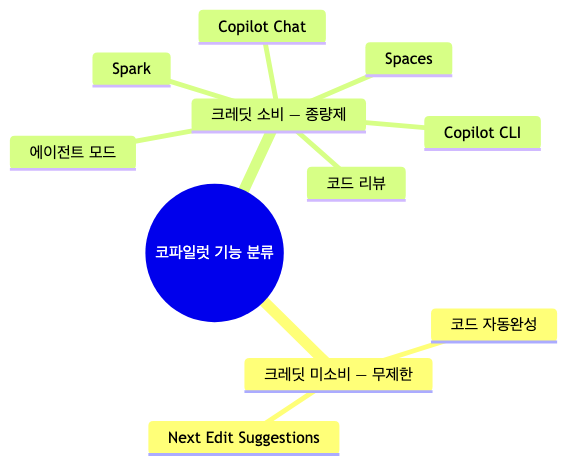
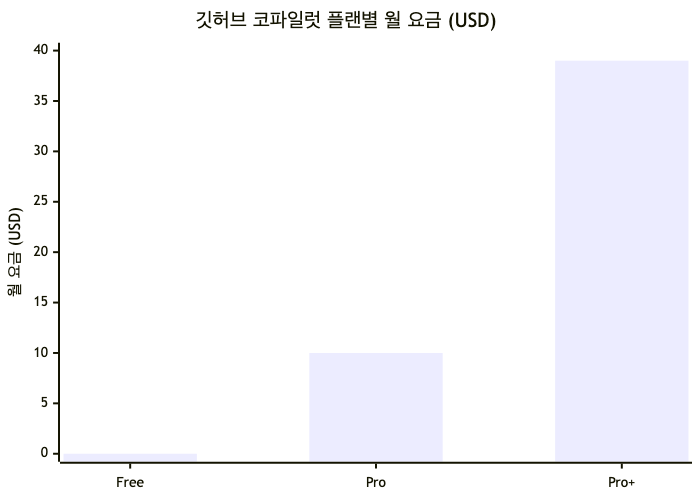
post: 깃허브 코파일럿 토큰 요금제: 개발자들에게 진짜 이득일까?

Changed region(s): [[0.0, 0.0, 0.9757, 0.9214], [0.0887, 0.862, 1.0, 0.9809]]

diff --git a/content/posts/2026-07-01-깃허브-코파일럿-요금--ai-코딩-비용.md b/content/posts/2026-07-01-깃허브-코파일럿-요금--ai-코딩-비용.md
@@ -1,0 +1,140 @@
+---
+title: "깃허브 코파일럿 토큰 요금제: 개발자들에게 진짜 이득일까?"
+date: 2026-07-01
+draft: false
+tags: ["깃허브 코파일럿 요금", "AI 코딩 비용", "GitHub Copilot", "usage-based billing", "AI Credits"]
+categories: ["ai-cost-guide"]
+description: "GitHub Copilot이 2026년 6월 프리미엄 요청 카운트에서 토큰 소비 기반 사용량 과금으로 전환했다. 플랜별 가격, 크레딧 소진 구조, 요금 폭탄 위험까지 개발자 관점에서 손익을 따져본다."
+cover:
+  image: "images/깃허브-코파일럿-요금--ai-코딩-비용-cover.jpg"
+  alt: "깃허브 코파일럿 토큰 요금제: 개발자들에게 진짜 이득일까? 커버 이미지"
+  caption: "Photo by [geralt](https://pixabay.com/ko/photos/%EC%88%98%EC%88%98%EB%A3%8C-%ED%85%94%EB%A0%88%EB%B9%84%EC%A0%84-%EC%9A%94%EA%B8%88-%EB%B9%84%EC%9A%A9-2731627/) on Pixabay"
+---
+
+> ※ 이 글에는 제휴 마케팅 링크가 포함될 수 있으며, 구매 시 수수료를 받을 수 있습니다.
+
+## "이번 달 코파일럿 요금이 왜 이렇게 나왔지?"
+
+AI 코딩 도구를 쓰는 개발자라면 이 질문을 한 번쯤 마주하게 될지도 모른다. GitHub Copilot이 2026년 6월 1일부터 요금 체계를 근본적으로 바꿨기 때문이다. "월 얼마"라는 정액제 감각에 익숙했던 사용자에게, 토큰 소비량에 따라 비용이 달라지는 새 방식은 낯설고 예측이 어렵다. 이 글에서는 새 요금제가 실제로 어떻게 작동하는지, 그리고 개발자 입장에서 이득인지 손해인지를 숫자로 따져본다.
+
+## 무엇이 바뀌었나 — 프리미엄 요청에서 토큰 과금으로
+
+핵심부터 짚자. GitHub Copilot은 2026년 6월 1일부터 기존의 "프리미엄 요청 카운트(premium request count)" 방식에서 "토큰 소비 기반 사용량 과금(usage-based billing)"으로 전환했다 ([github.blog](https://github.blog/news-insights/company-news/github-copilot-is-moving-to-usage-based-billing/)).
+
+기존 방식은 요청 1건을 하나로 세고, 모델별 배수를 곱해 프리미엄 요청 한도를 소진하는 구조였다. 새 방식은 다르다. **입력 토큰·출력 토큰·캐시 토큰을 모두 포함한 실제 토큰 소비량**을 각 모델의 API 요율로 계산해 GitHub AI Credits로 환산한다 ([github.blog](https://github.blog/news-insights/company-news/github-copilot-is-moving-to-usage-based-billing/)). 쉽게 말해, 요청을 몇 번 했느냐가 아니라 **얼마나 많은 토큰을 태웠느냐**가 비용을 결정하는 방식으로 바뀐 것이다.
+
+여기서 등장하는 단위가 **GitHub AI Credits**다. **1 AI Credit = $0.01 USD**이며, 각 플랜은 월 일정액의 AI Credits를 기본 포함한다 ([docs.github.com](https://docs.github.com/en/copilot/reference/copilot-billing/models-and-pricing)). 즉 크레딧은 사실상 달러를 잘게 쪼갠 계량 단위이고, 토큰을 쓸수록 이 크레딧이 깎여 나간다.
+
+### 크레딧을 쓰는 기능과 안 쓰는 기능
+
+새 요금제를 이해하는 데 가장 중요한 구분이 이것이다. 모든 기능이 크레딧을 소비하지는 않는다.
+
+**크레딧을 소비하지 않는 기능 (유료 플랜에서 무제한 유지):**
+- 코드 자동완성(completions)
+- Next Edit 제안
+
+이 두 가지는 크레딧을 소비하지 않고, 유료 플랜에서 무제한으로 유지된다 ([github.com/features/copilot](https://github.com/features/copilot/plans)). 코파일럿을 "타이핑하면 회색 글씨로 다음 줄을 제안해 주는 도구"로만 쓰는 사람이라면, 요금 체계 변화의 영향을 거의 받지 않는다는 뜻이다.
+
+**크레딧(프리미엄)을 소비하는 기능:**
+- 채팅(Chat)
+- 코딩 에이전트 단계(coding agent steps)
+- PR 코드 리뷰
+- 에디터 Agent Mode 요청
+
+이 요청들이 프리미엄/크레딧을 소비한다 ([docs.github.com](https://docs.github.com/en/copilot/reference/copilot-billing/request-based-billing-legacy/copilot-requests)). 즉 최근 개발자들이 가장 많이 쓰는 "에이전트에게 일을 시키는" 사용 패턴이 정확히 비용이 붙는 구간이다. 자동완성만 쓰던 시절과 달리, 에이전트 모드를 적극 활용할수록 크레딧 소진 속도가 빨라진다.
+
+참고로 레거시(기존) 방식에서 예산을 초과한 프리미엄 요청은 요청당 $0.04로 청구됐고, 모델 배수에 따라 50x 모델 요청은 단건당 최대 $2.00까지 들었다 ([docs.github.com](https://docs.github.com/en/copilot/reference/copilot-billing/request-based-billing-legacy/copilot-requests)). 새 토큰 방식은 이 "요청당 고정 단가" 개념을 "토큰량 × API 요율"로 대체한 셈이다.
+
+### Pro+ 이상의 서드파티 에이전트 위임
+
+또 하나 눈에 띄는 기능은 위임이다. Pro+ 이상 플랜에서는 Anthropic Claude, OpenAI Codex 등 서드파티 코딩 에이전트에 작업을 위임할 수 있다 ([github.com/features/copilot](https://github.com/features/copilot/plans)). 여러 모델을 한 인터페이스에서 골라 쓸 수 있다는 점은 장점이지만, 뒤에서 설명할 "비싼 모델일수록 크레딧이 빨리 녹는다"는 함정과 직결된다.
+
+## 단점과 한계 — 새 요금제가 감춘 지뢰들
+
+새 방식은 "많이 쓰면 많이 내고, 적게 쓰면 적게 낸다"는 점에서 공정해 보인다. 그러나 개발자 입장에서 반드시 알아야 할 구조적 단점이 최소 세 가지 있다.
+
+### 단점 1 — 저비용 모델 자동 폴백(fallback) 폐지
+
+이전에는 한도를 넘거나 특정 조건에서 더 저렴한 모델로 자동 전환(fallback)되는 완충 장치가 있었다. 새 방식에서는 **이 저비용 모델 자동 폴백이 더 이상 제공되지 않는다** ([github.blog](https://github.blog/news-insights/company-news/github-copilot-is-moving-to-usage-based-billing/)). 사용량은 오직 "남은 크레딧"과 "예산 통제"로만 관리된다. 결과적으로 비싼 모델을 계속 선택해 쓰면 크레딧이 빠르게 소진되고, 이를 막아주던 안전망이 사라진 것이다. 모델 선택의 책임이 전적으로 사용자에게 넘어왔다고 볼 수 있다.
+
+### 단점 2 — 기본 예산 $0의 양날의 검
+
+새 요금제에서 기본 예산은 $0로 설정돼 있다 ([github.blog](https://github.blog/news-insights/company-news/github-copilot-is-moving-to-usage-based-billing/)). 이 설정에는 두 가지 상반된 위험이 동시에 존재한다.
+
+- **예산을 올리지 않으면**: 포함된 크레딧을 다 쓴 순간 프리미엄 기능이 차단된다. 작업 중간에 에이전트가 멈추는 상황이 발생할 수 있다.
+- **예산을 열어두면**: 토큰 기반 과금이 상한 없이 흘러가면서 이른바 "요금 폭탄(meter shock)"이 발생할 수 있다.
+
+즉 안전(차단)과 편의(무중단) 사이에서 사용자가 직접 예산 슬라이더를 조절해야 하며, 어느 쪽으로 세팅하든 대가가 따른다.
+
+### 단점 3 — 사전 예측이 어려운 청구액
+
+토큰 소비 기반 과금은 **모델·프롬프트 길이·캐시 여부에 따라 비용이 달라진다** ([github.blog](https://github.blog/news-insights/company-news/github-copilot-is-moving-to-usage-based-billing/)). 같은 "코드 리뷰 한 번"이라도 컨텍스트가 길면 토큰이 많아지고, 비싼 모델을 쓰면 요율이 높아진다. 그 결과 개발자가 월말 청구액을 사전에 정확히 예측하기가 상당히 어렵다. 정액제의 최대 장점이었던 "예측 가능성"이 희생된 셈이다.
+
+이 세 단점을 완화하기 위해 GitHub는 예산 통제 기능과 **75% / 90% / 100% 사용량 알림**을 제공한다 ([docs.github.com](https://docs.github.com/en/copilot/reference/copilot-billing/models-and-pricing)). 하지만 알림은 어디까지나 사후 경고일 뿐, 토큰 단위 비용 자체를 예측 가능하게 만들어 주지는 못한다.
+
+## 요금·한도 — 플랜별 정리
+
+![플랜별 월 구독료 비교 — Free($0), Pro($10), Pro+($39). 각 유료 플랜은 요금과 동일한 금액 상당의 AI Credits를 포함한다.](/ai-tools-blog/images/깃허브-코파일럿-요금--ai-코딩-비용-diagram.png)
+*플랜별 월 구독료 비교 — Free($0), Pro($10), Pro+($39). 각 유료 플랜은 요금과 동일한 금액 상당의 AI Credits를 포함한다.*
+
+
+플랜별 가격과 포함 크레딧을 정리하면 다음과 같다. 모든 유료 플랜은 코드 자동완성·Next Edit을 크레딧 소비 없이 무제한 제공한다는 점을 기억하자.
+
+- **Copilot Free**: $0/월. 제한된 채팅·에이전트 사용량 포함 ([github.com/features/copilot](https://github.com/features/copilot/plans))
+- **Copilot Pro**: $10/월. 월 $10 상당 AI Credits 포함 ([github.blog](https://github.blog/news-insights/company-news/github-copilot-is-moving-to-usage-based-billing/))
+- **Copilot Pro+**: $39/월. 월 $39 상당 AI Credits 포함 ([github.blog](https://github.blog/news-insights/company-news/github-copilot-is-moving-to-usage-based-billing/))
+- **Copilot Business**: $19/사용자/월. 월 $19 상당 AI Credits 포함 (2026년 6~8월 전환기 프로모션 $30) ([github.blog](https://github.blog/news-insights/company-news/github-copilot-is-moving-to-usage-based-billing/))
+- **Copilot Enterprise**: $39/사용자/월. 월 $39 상당 AI Credits 포함 (2026년 6~8월 전환기 프로모션 $70) ([github.blog](https://github.blog/news-insights/company-news/github-copilot-is-moving-to-usage-based-billing/))
+
+여기서 눈여겨볼 점은, **월 구독료와 포함 크레딧 금액이 사실상 1:1로 매칭**된다는 것이다 (예: Pro는 $10에 $10 크레딧, Pro+는 $39에 $39 크레딧). 즉 구독료가 곧 "선불 크레딧 충전"에 가깝고, 이 크레딧을 다 쓰면 예산 설정에 따라 추가 과금 또는 차단이 발생한다. Business와 Enterprise의 전환기 프로모션 금액($30·$70)은 6~8월 한시적 조건으로 안내된 값이라로 표시한다.
+
+크레딧 환산 기준은 앞서 언급한 대로 **1 AI Credit = $0.01**이다 ([docs.github.com](https://docs.github.com/en/copilot/reference/copilot-billing/models-and-pricing)). 예를 들어 Pro의 월 $10 크레딧은 1,000 크레딧에 해당한다.
+
+## 비교표 — 플랜 한눈에 보기
+
+| 플랜 | 월 요금 | 포함 AI Credits | 자동완성·Next Edit | 프리미엄 기능(채팅·에이전트·PR리뷰) | 서드파티 에이전트 위임 |
+|------|---------|-----------------|--------------------|--------------------------------------|------------------------|
+| Free | $0 | 제한적 | 제한 | 제한된 사용량 | 불가 |
+| Pro | $10 | $10 상당 | 무제한 | 크레딧 소진까지 | 불가 |
+| Pro+ | $39 | $39 상당 | 무제한 | 크레딧 소진까지 | 가능 (Claude·Codex 등) |
+| Business | $19/인 | $19 상당 | 무제한 | 크레딧 소진까지 | 불가 |
+| Enterprise | $39/인 | $39 상당 | 무제한 | 크레딧 소진까지 | 가능 |
+
+출처: [github.blog](https://github.blog/news-insights/company-news/github-copilot-is-moving-to-usage-based-billing/), [github.com/features/copilot](https://github.com/features/copilot/plans), [docs.github.com](https://docs.github.com/en/copilot/reference/copilot-billing/models-and-pricing). Business·Enterprise 전환기 프로모션가($30·$70)는 6~8월 한시.
+
+## 누구에게 이득이고 누구에게 손해인가 — 추천 대상
+
+새 요금제의 승자와 패자는 사용 패턴에 따라 갈린다.
+
+**이득을 볼 가능성이 높은 사용자:**
+- **자동완성 위주 사용자**: 코드 completions·Next Edit만 주로 쓴다면 크레딧을 거의 소비하지 않으므로, 월 $10 Pro만으로도 사실상 무제한에 가깝게 쓸 수 있다 ([github.com/features/copilot](https://github.com/features/copilot/plans)).
+- **경량 채팅 사용자**: 하루에 몇 번 짧은 질문만 하는 정도라면 포함 크레딧 안에서 충분히 해결된다.
+
+**주의가 필요한 사용자:**
+- **에이전트 헤비 유저**: Agent Mode, 코딩 에이전트, PR 리뷰를 하루 종일 돌리는 개발자라면 크레딧 소진이 빠르다. 예산을 열어두면 요금 폭탄, 닫아두면 작업 중단의 딜레마에 빠진다.
+- **비싼 모델 선호 사용자**: 저비용 폴백이 사라졌으므로, 고성능 모델을 습관적으로 선택하면 같은 작업도 크레딧이 훨씬 빨리 녹는다 ([github.blog](https://github.blog/news-insights/company-news/github-copilot-is-moving-to-usage-based-billing/)).
+- **팀·조직 관리자**: Business/Enterprise에서 사용자별 예산과 알림 정책을 설계하지 않으면, 팀 전체 청구액을 통제하기 어렵다.
+
+**추천 전략:** 먼저 자신의 사용 패턴이 "자동완성 위주"인지 "에이전트 위주"인지 파악하라. 자동완성 위주라면 Pro로 충분하고, 에이전트 위주라면 예산 상한을 명확히 설정한 뒤 75%/90% 알림을 적극 활용해 첫 달 실사용량을 관측한 다음 플랜을 조정하는 것이 안전하다.
+
+## FAQ
+
+**Q1. 코드 자동완성만 쓰는데도 크레딧이 소진되나요?**
+아니다. 코드 자동완성(completions)과 Next Edit 제안은 크레딧을 소비하지 않으며, 유료 플랜에서 무제한으로 유지된다 ([github.com/features/copilot](https://github.com/features/copilot/plans)). 크레딧을 소비하는 것은 채팅, 코딩 에이전트 단계, PR 코드 리뷰, 에디터 Agent Mode 요청이다 ([docs.github.com](https://docs.github.com/en/copilot/reference/copilot-billing/request-based-billing-legacy/copilot-requests)).
+
+**Q2. 요금 폭탄(meter shock)을 피하려면 어떻게 해야 하나요?**
+기본 예산이 $0로 설정돼 있으므로, 예산을 무작정 높게 열어두지 말고 상한을 명확히 설정하는 것이 핵심이다 ([github.blog](https://github.blog/news-insights/company-news/github-copilot-is-moving-to-usage-based-billing/)). 또한 75% / 90% / 100% 사용량 알림을 켜두면 소진 상황을 사전에 감지할 수 있다 ([docs.github.com](https://docs.github.com/en/copilot/reference/copilot-billing/models-and-pricing)). 다만 알림은 사후 경고이므로, 비싼 모델 남용을 스스로 자제하는 것이 근본 대책이다.
+
+**Q3. 1 크레딧이 얼마인가요? 실제 비용을 어떻게 계산하나요?**
+1 AI Credit = $0.01 USD이다 ([docs.github.com](https://docs.github.com/en/copilot/reference/copilot-billing/models-and-pricing)). 실제 비용은 "소비한 토큰량 × 해당 모델의 API 요율"로 계산되어 크레딧으로 환산된다 ([github.blog](https://github.blog/news-insights/company-news/github-copilot-is-moving-to-usage-based-billing/)). 모델·프롬프트 길이·캐시 여부에 따라 달라지므로, 사전에 정확히 예측하기보다 실사용 데이터를 관측하며 조정하는 편이 현실적이다.
+
+## 결론
+
+GitHub Copilot의 토큰 요금제 전환은 "쓴 만큼 낸다"는 공정성을 앞세우지만, 그 대가로 예측 가능성과 자동 안전망을 내려놓았다. 자동완성 위주 개발자에게는 사실상 손해가 없고, 에이전트를 헤비하게 굴리는 개발자에게는 예산 설계가 새로운 필수 과제가 됐다. 진짜 이득인지는 결국 **본인의 사용 패턴을 숫자로 확인한 뒤에** 판단할 문제다. 첫 달은 예산 상한과 알림을 켜둔 채 실사용량을 관측하는 것을 권한다.
+
+## 참고 링크
+
+- GitHub Copilot 사용량 기반 과금 전환 공지 — [github.blog](https://github.blog/news-insights/company-news/github-copilot-is-moving-to-usage-based-billing/)
+- 모델 및 가격 공식 문서 — [docs.github.com](https://docs.github.com/en/copilot/reference/copilot-billing/models-and-pricing)
+- 플랜 비교 페이지 — [github.com/features/copilot](https://github.com/features/copilot/plans)
+- 프리미엄 요청(레거시) 청구 기준 — [docs.github.com](https://docs.github.com/en/copilot/reference/copilot-billing/request-based-billing-legacy/copilot-requests)